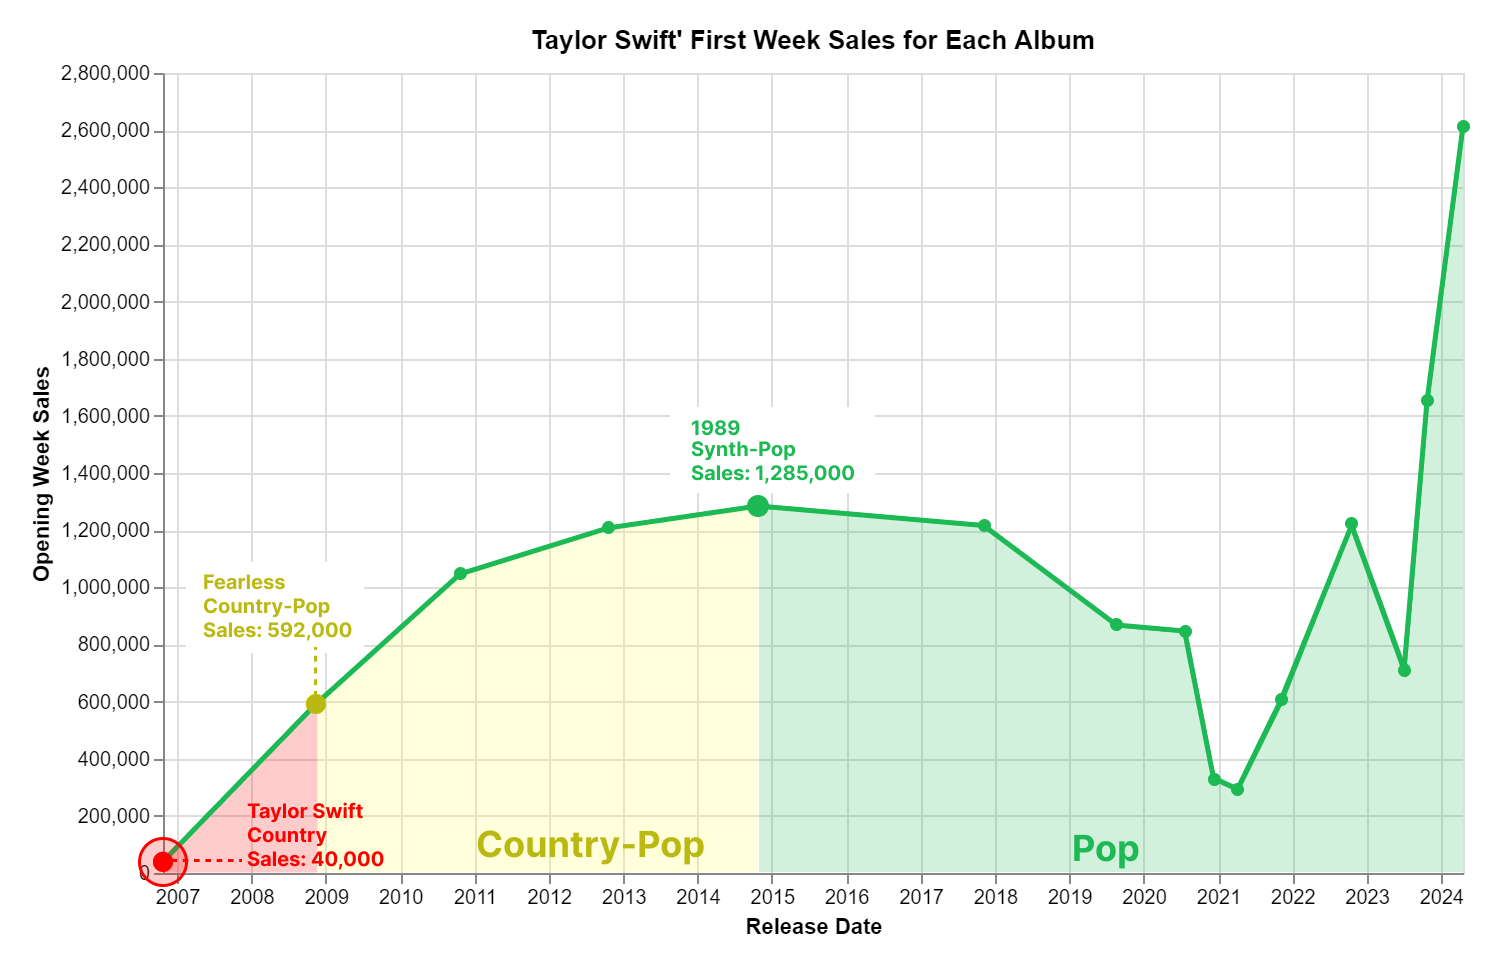
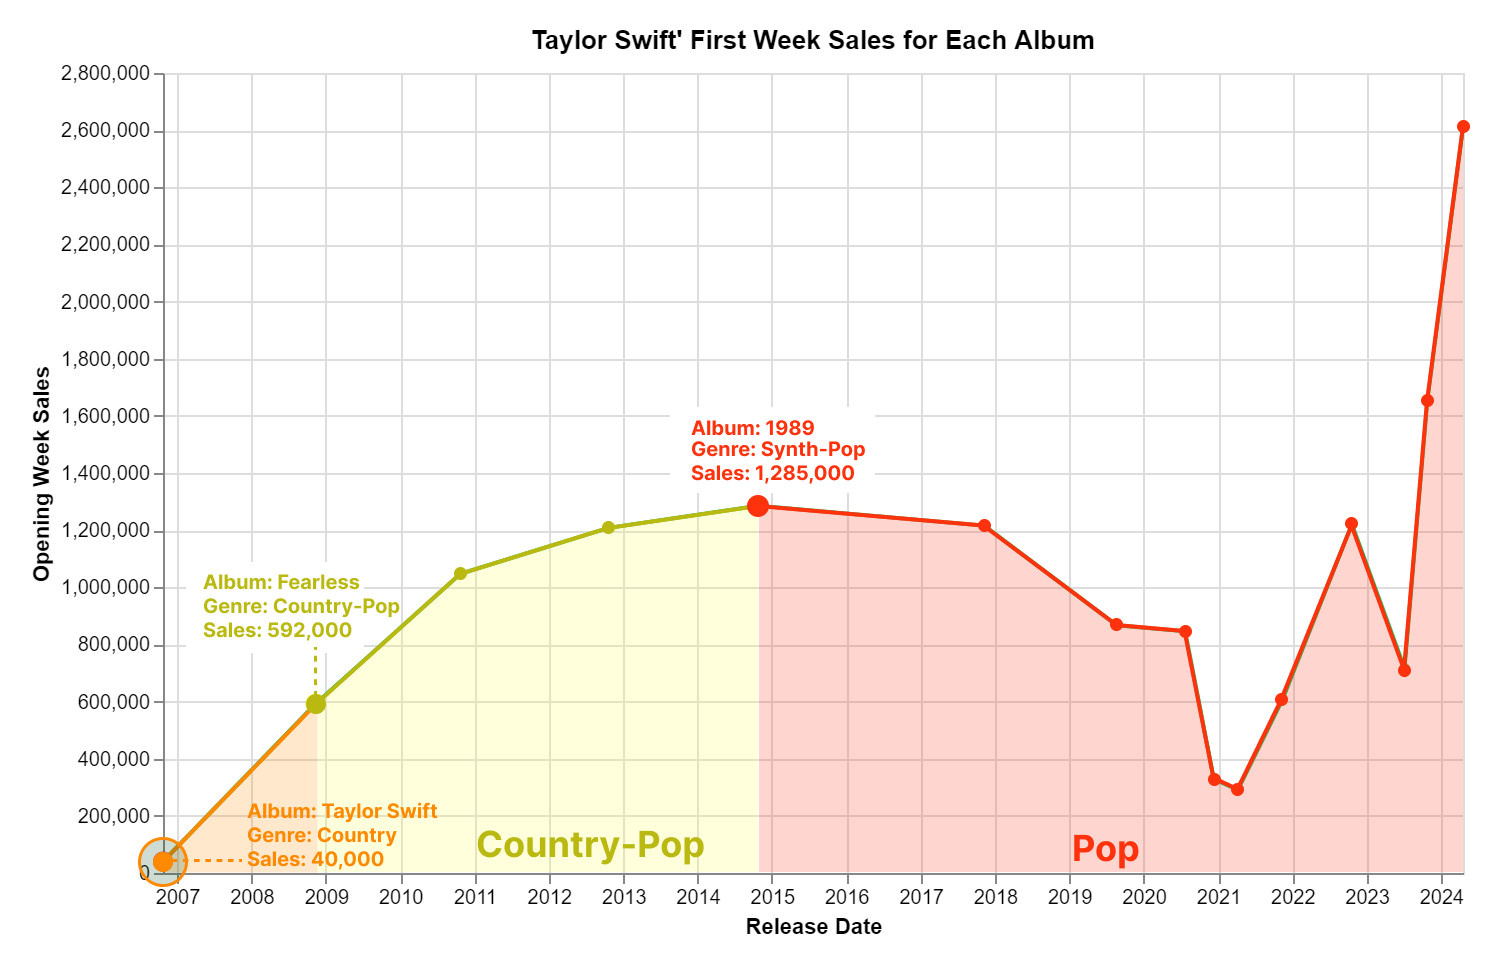
taylor viz updated
updated color of visualization to be more consistent with our color palettes

diff --git a/finalproj/index.html b/finalproj/index.html
@@ -397,7 +397,7 @@
             <!-- <div id="taylorSwiftViz"></div> -->
             <p>Looking at Taylor Swift's career, she had initially started off making country music but had chosen to switch genres through her career: from country to pop. Earlier albums (taylor Swift, Fearless...) that had been under the country or country-pop genre had recorded low album sales on the first week of releases, but had experienced an exponential increase in albums sales once she had completely transitioned into pop music (1989, Reputation, Midnights...).</p>
             <!-- insert updated vis here vvv  -->
-            <div><img src="https://ariellebeltran.github.io/with_clarktanquerido/images/viz_TaylorSwift_altColors.png"
+            <div><img src="https://ariellebeltran.github.io/with_clarktanquerido/images/viz_TaylorSwift.png
                 alt="A visualization showing the trends of Taylor Swift's First week album sales throughout her career." width="100%" height="auto"></div>
 
             <!-- <h3>How Pop & Hip-hop Has Dominated Globally</h3>
